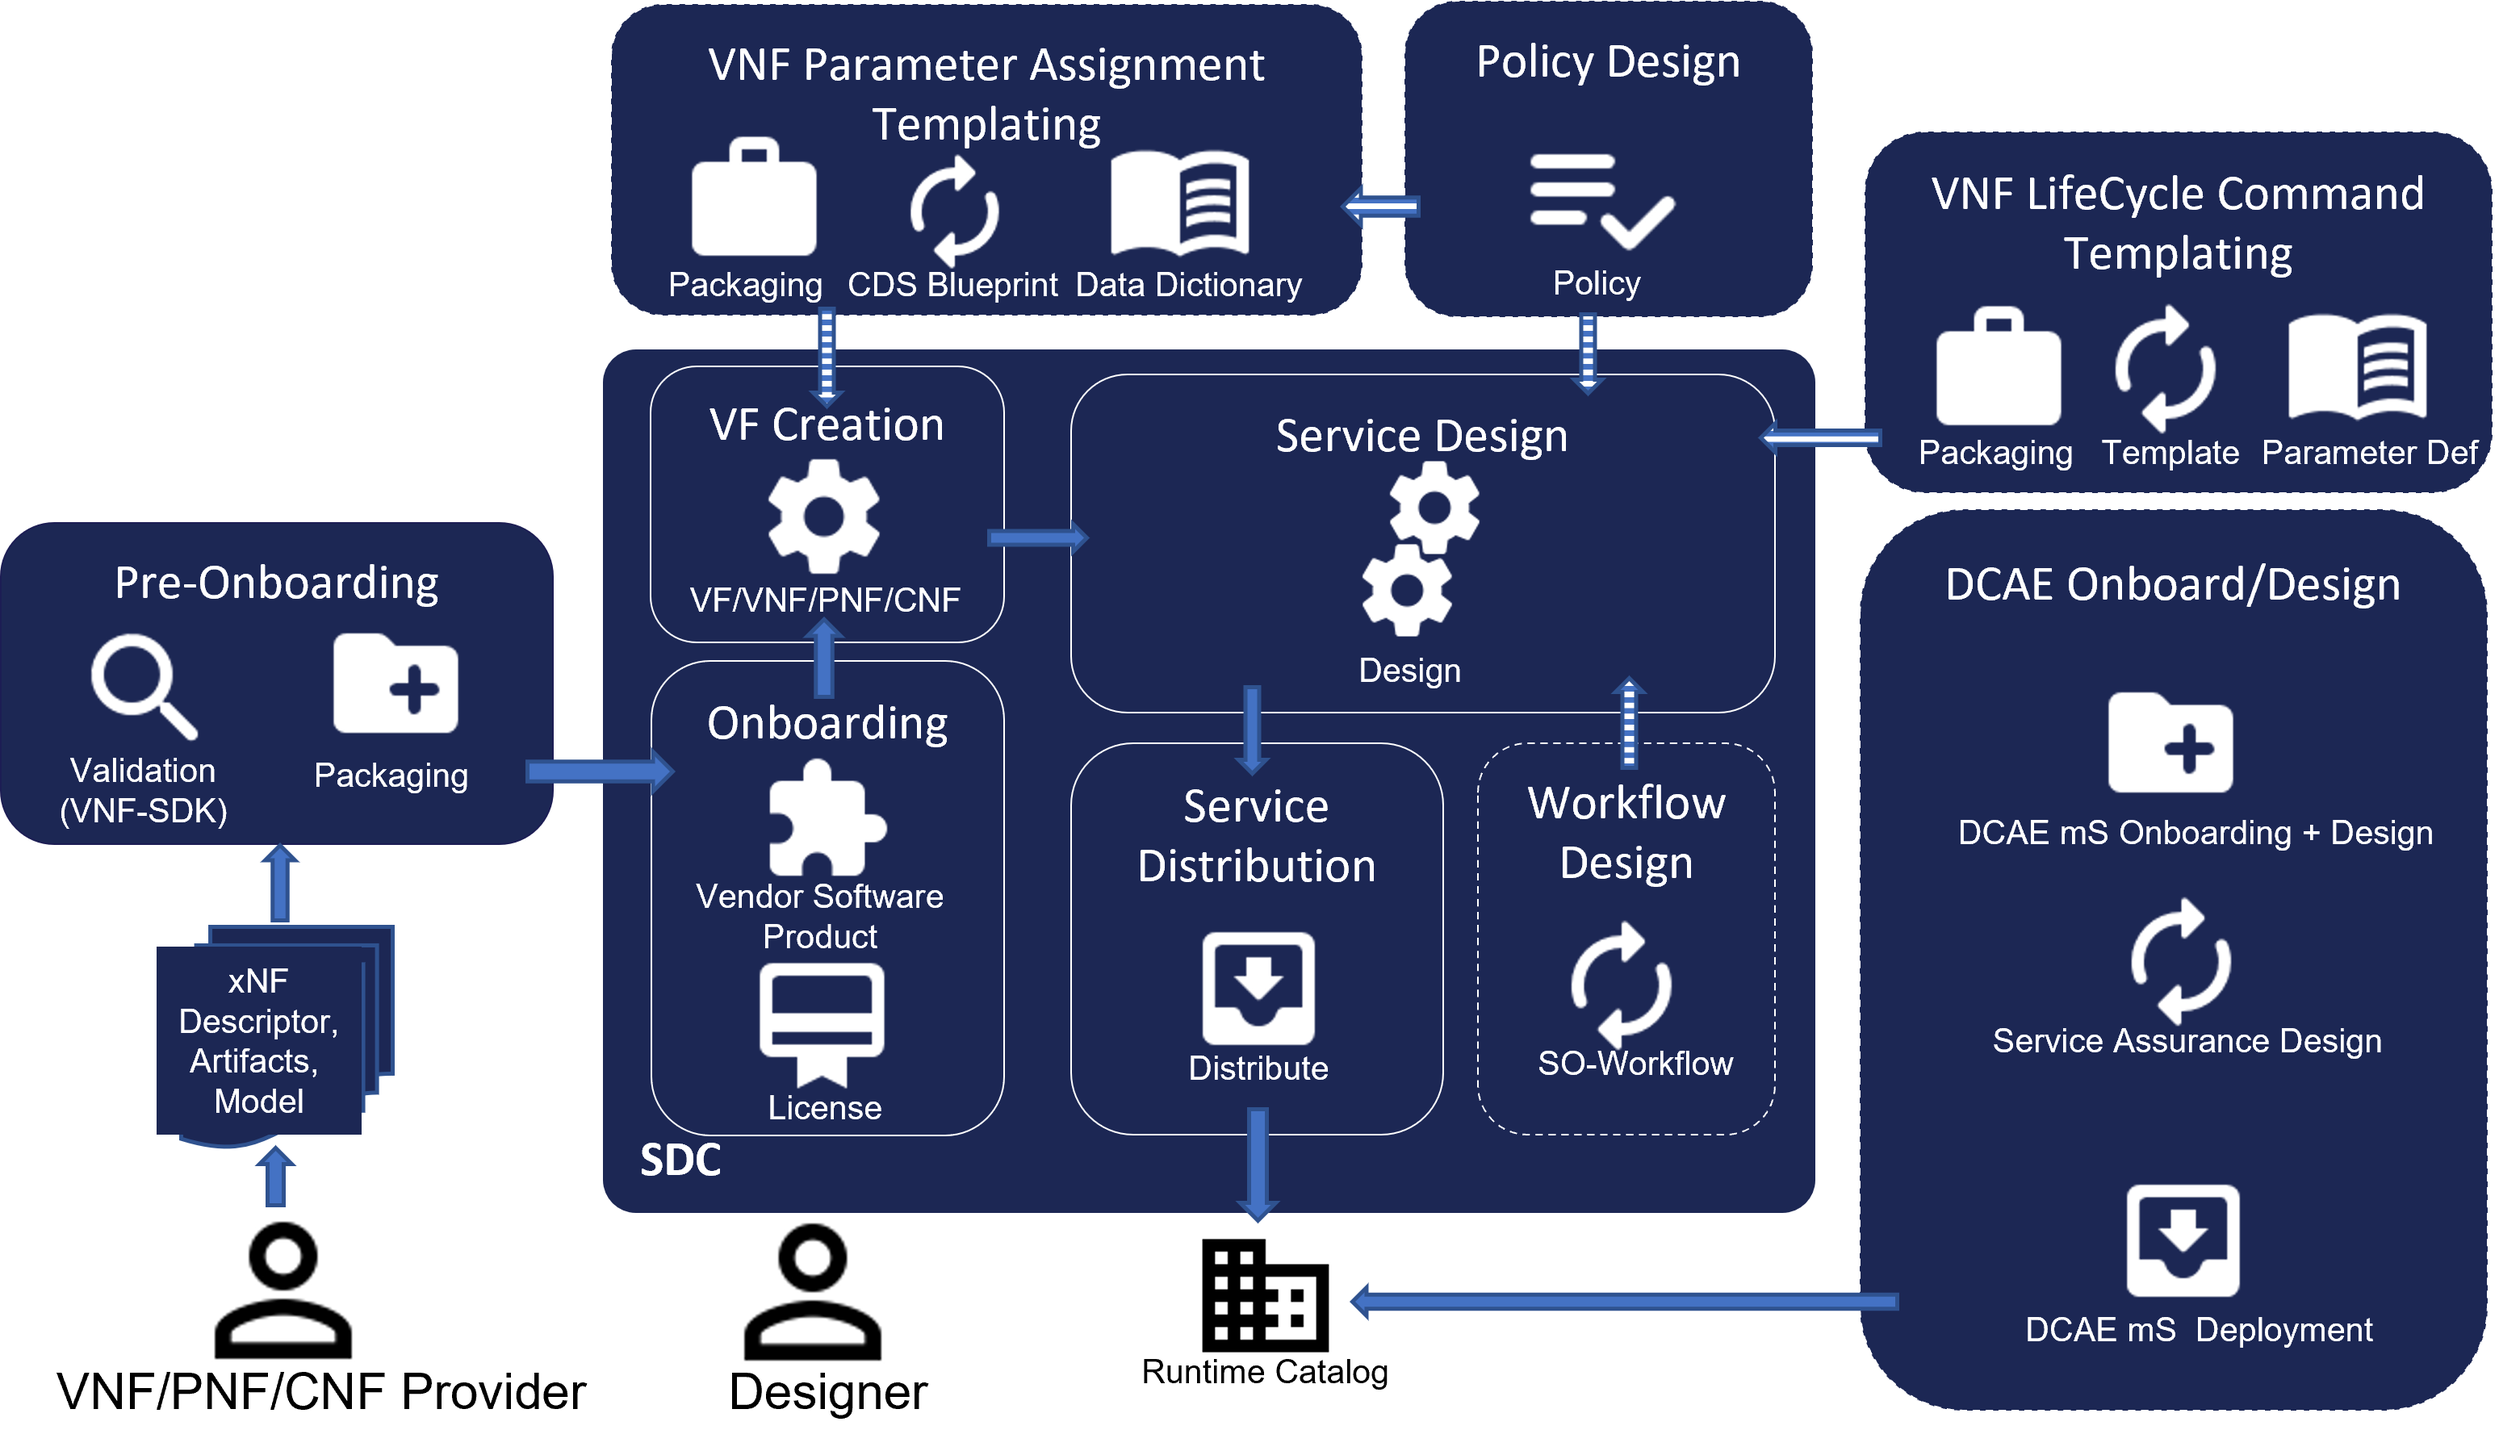
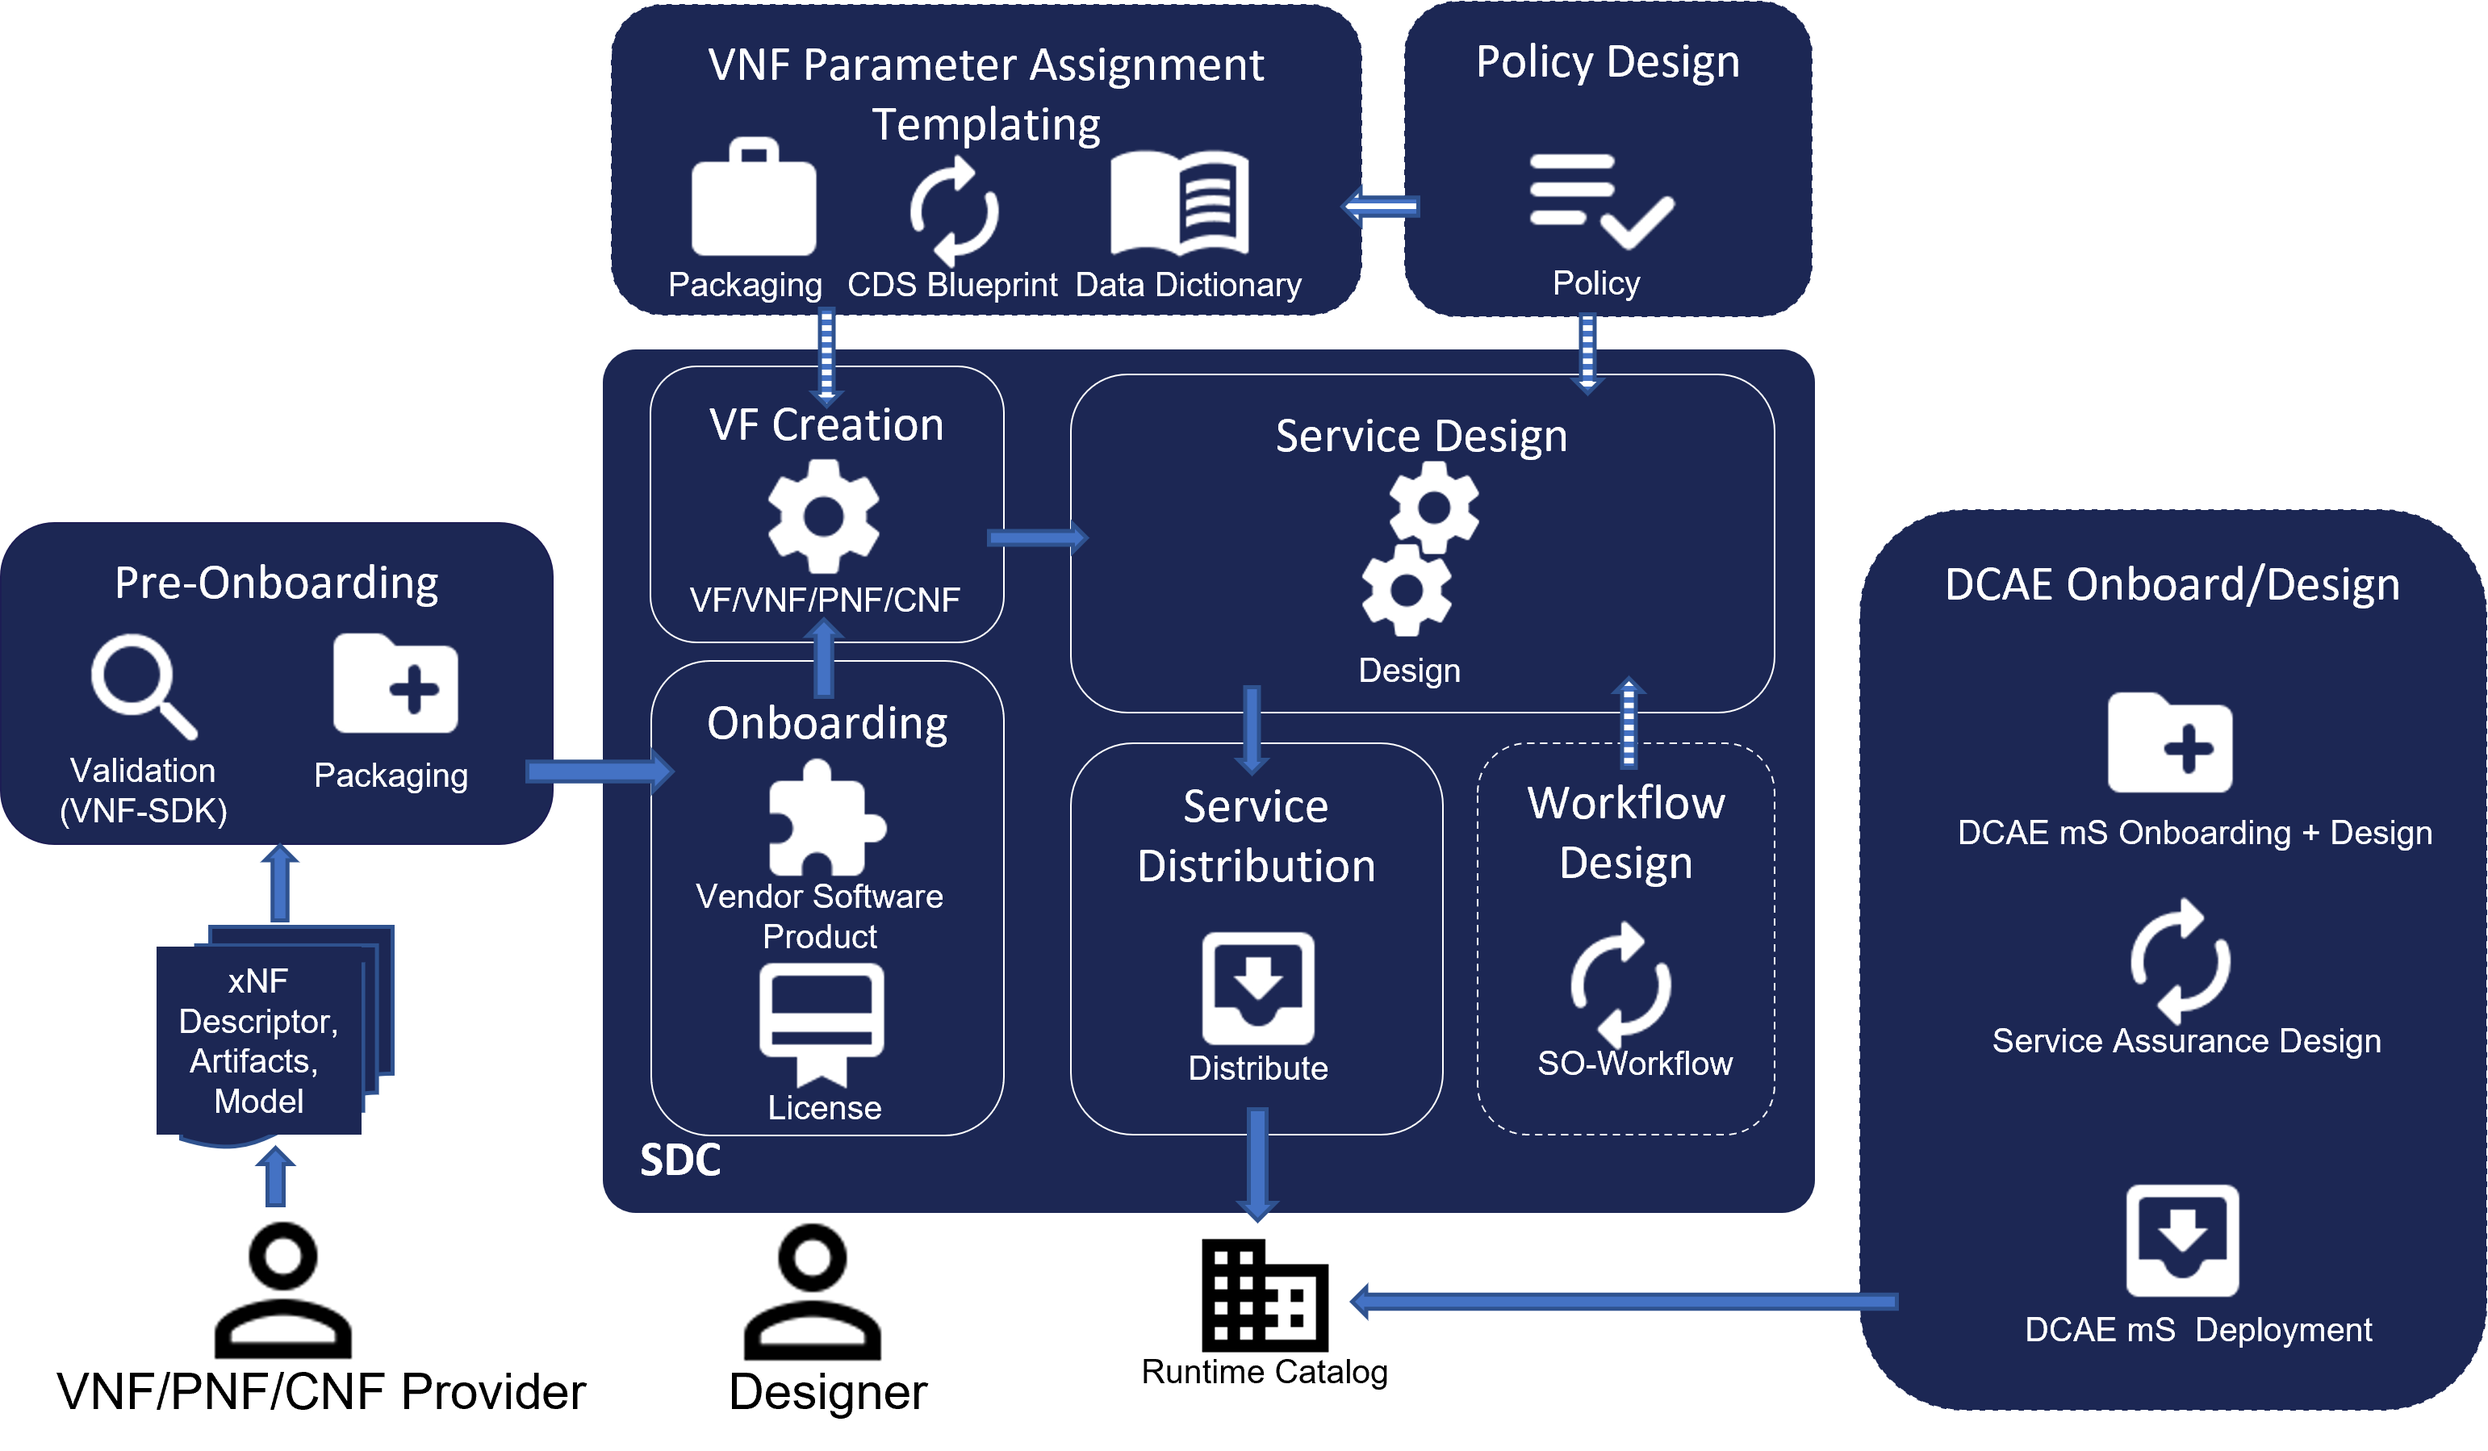
cleanup documentation (not branched, unmaintained) #4
Issue-ID: DOC-782

diff --git a/docs/guides/onap-user/design/index.rst b/docs/guides/onap-user/design/index.rst
@@ -72,12 +72,6 @@ Onboarding, Design and Distribution process.
     provides some policy models that are implemented and pre-loaded when
     installing ONAP.
 
-**VNF LifeCycle Command templating**
-    APPC Controller Design Tool (CDT) is used for self-service onboarding of
-    VNFs. VNF owners can create templates and other artifacts for APPC
-    Configure command (used to apply a post-instantiation configuration)
-    as well as other life cycle commands.
-
 **Workflow Design**
     The purpose of the Workflow Designer is to enable designers to define or
     modify workflows to support Service/Resource change management scenarios
@@ -102,9 +96,9 @@ The following sections focus on the different Design steps:
    VF Creation and Testing <./vfcreation/index.rst>
    Service Design <./service-design/index.rst>
    Service Distribution <./service-distribution/index.rst>
-   VNF parameter resolution Design <./parameter_resolution/index.rst>
+   VNF Parameter Resolution Design <./parameter_resolution/index.rst>
    Control Loop Design <./control-loop/index.rst>
-   Instructions for control loop design <./control-loop-design-steps/cl_design_instructions.rst>
+   Instructions for Control Loop Design <./control-loop-design-steps/cl_design_instructions.rst>
 
 The following section provide links to the projects:
 

diff --git a/docs/guides/onap-user/index.rst b/docs/guides/onap-user/index.rst
@@ -20,7 +20,6 @@ E2E User Guides
 
    design/index.rst
    instantiate/index.rst
-   configure/index.rst
 
 Component User Guides
 ---------------------
@@ -39,5 +38,4 @@ In the following page you find all use cases and functional requirements
 which have been officially verified in the actual release by the ONAP
 community.
 
-* :ref:`Current Use Cases<onap-integration:docs_usecases_release>`
-* :ref:`Deprecated Use Cases<onap-integration:docs_usecases>`
+* :ref:`Verified Use Cases<onap-integration:docs_usecases_release>`
